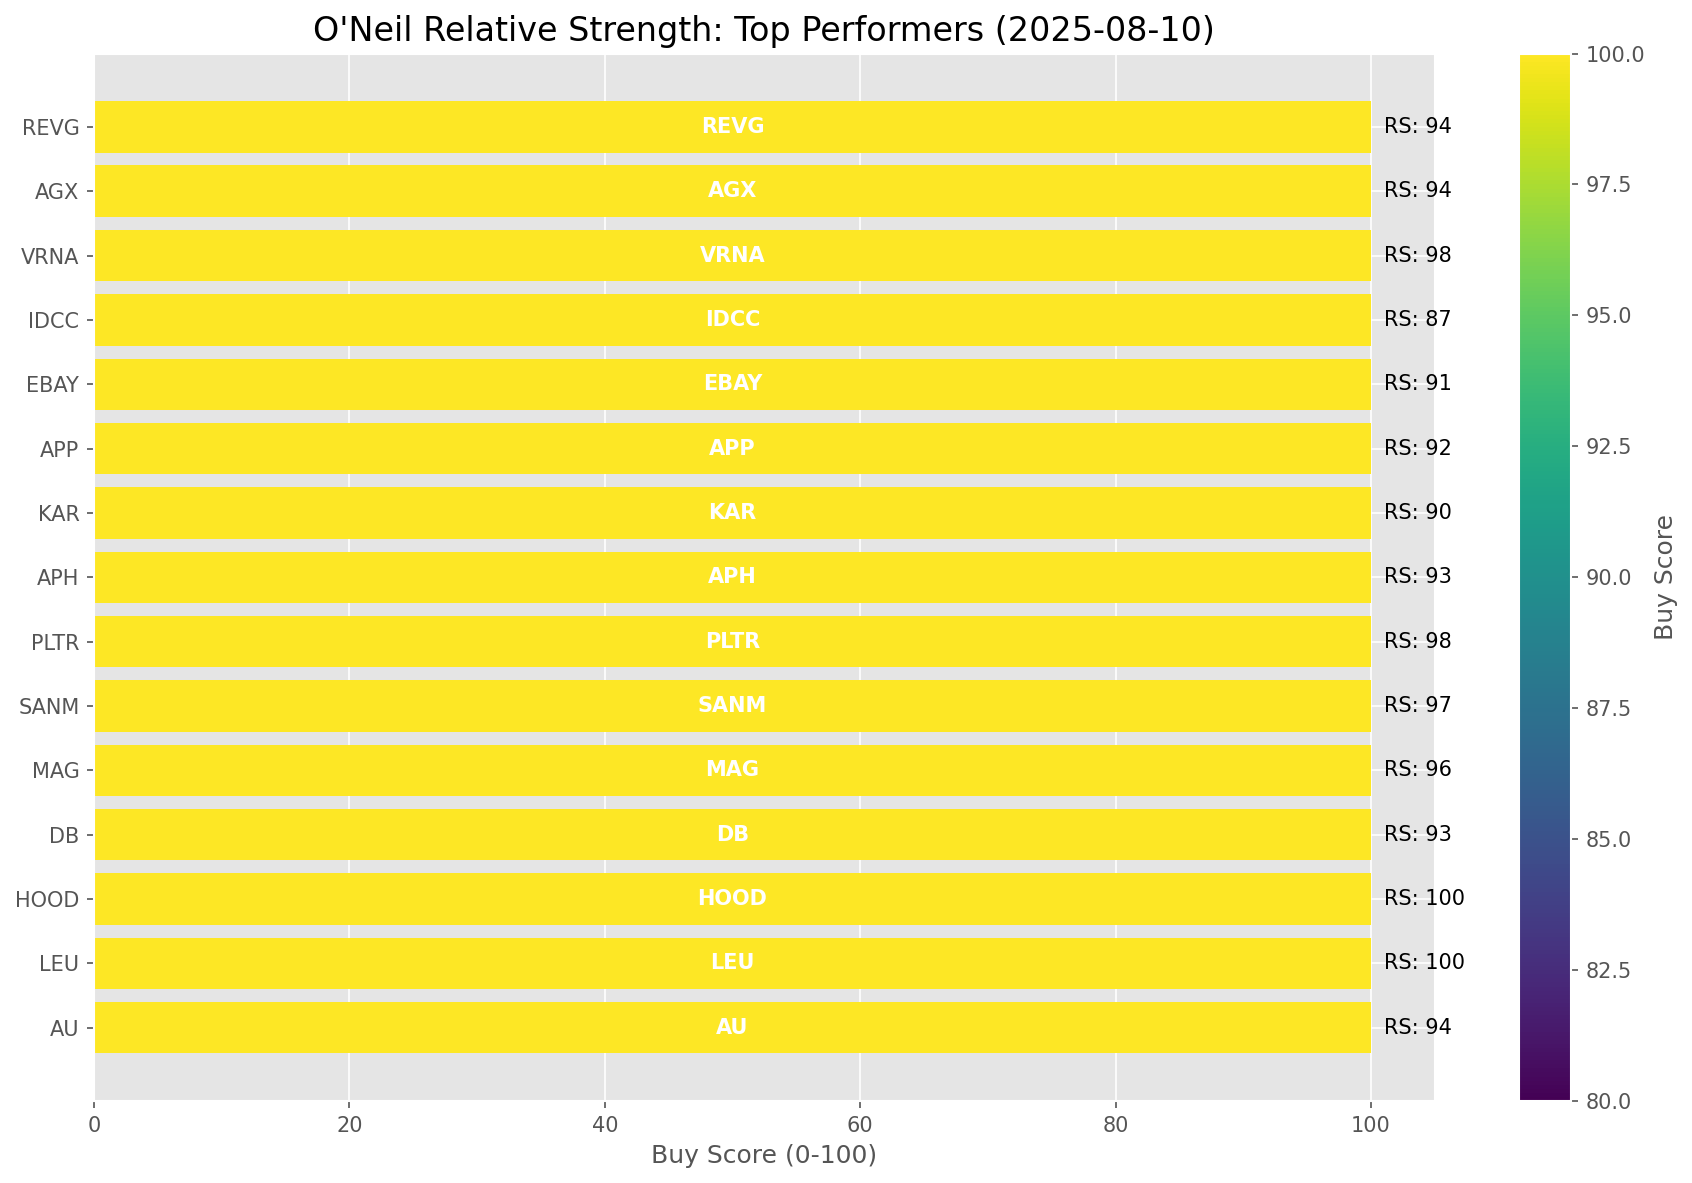
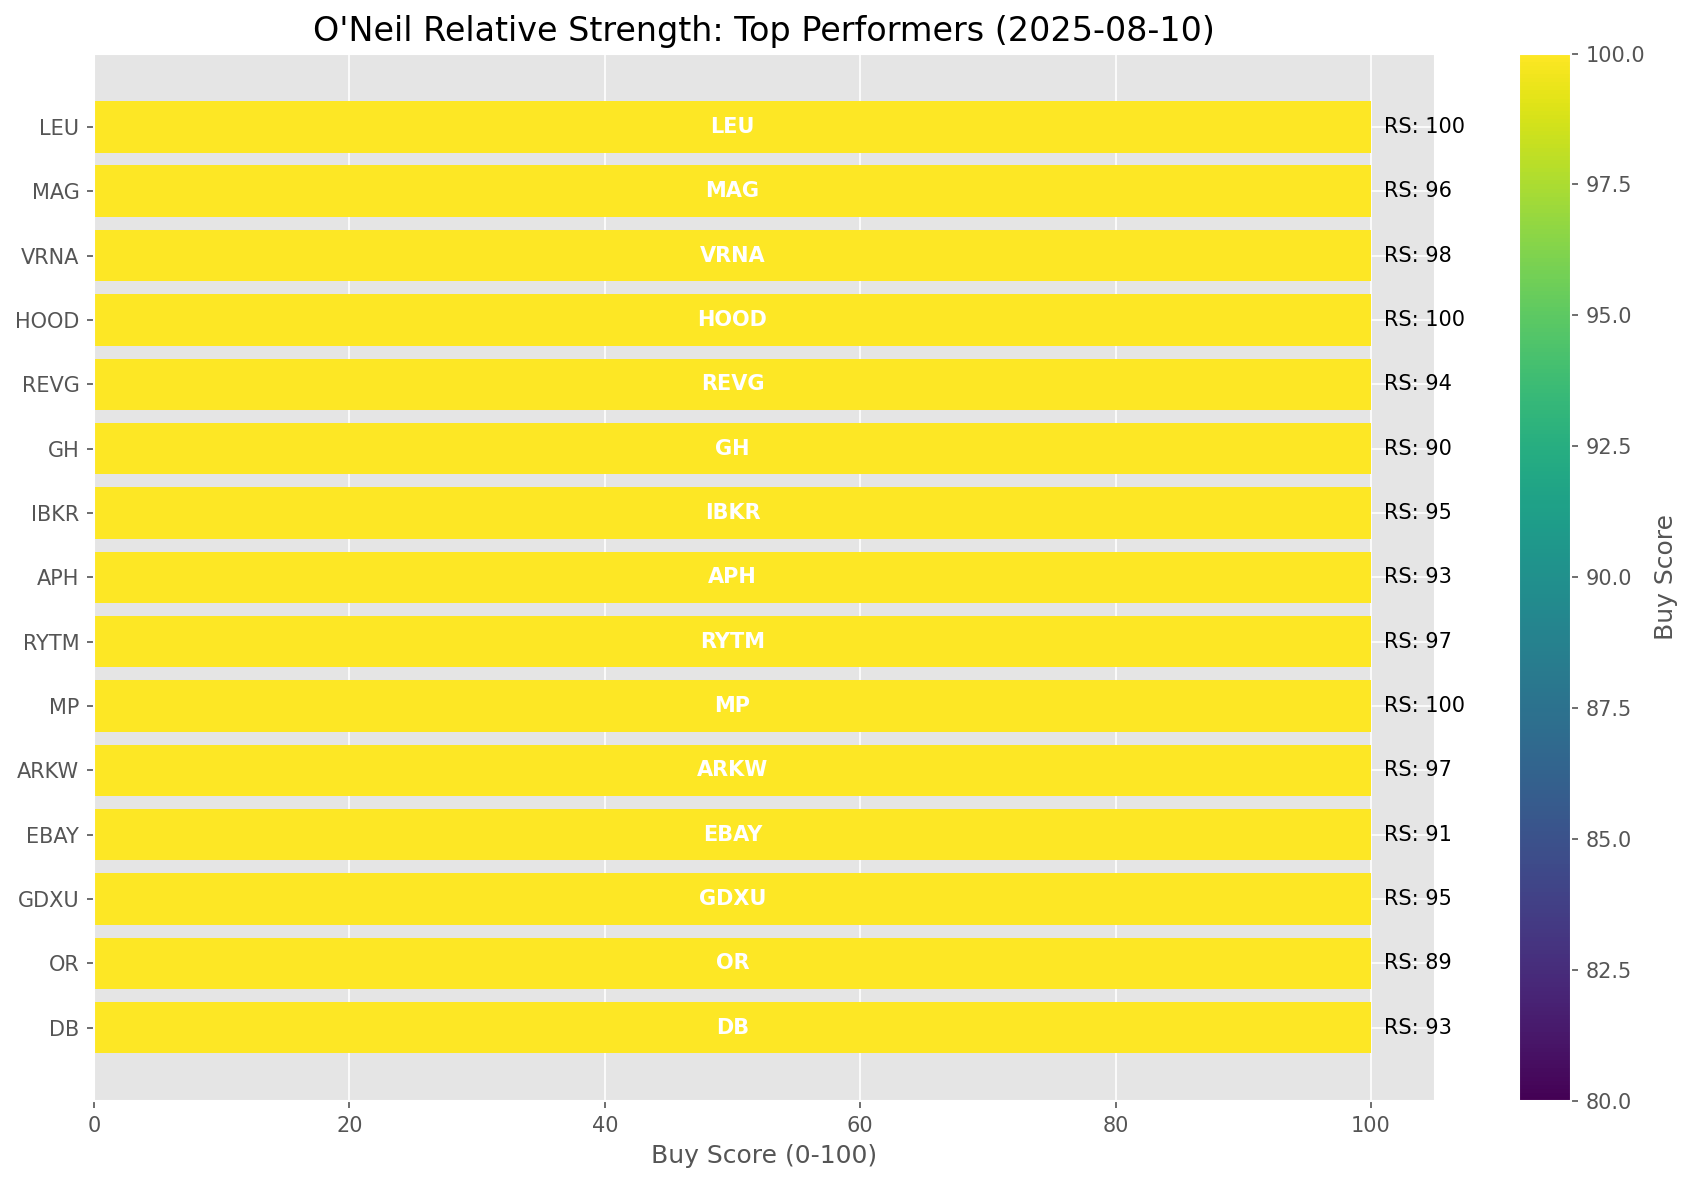
Add market report for 2025-08-10

diff --git a/oneil_relative_strength_report_2025-08-10.md b/oneil_relative_strength_report_2025-08-10.md
@@ -50,8 +50,8 @@ Based on William O'Neil's Relative Strength Methodology
 | ETF | Strength | RS Rating | Performance | Above Key MAs | Trend | Sector |
 |-----|----------|-----------|-------------|--------------|-------|--------|
 | [ARKW](https://www.tradingview.com/chart/?symbol=ARKW) | 98.5 | 97.0 | 49.80% | 10d ✓, 50d ✓, 200d ✓ | ↗ | Next Generation Internet |
-| [ARKF](https://www.tradingview.com/chart/?symbol=ARKF) | 98.0 | 96.0 | 45.73% | 10d ✓, 50d ✓, 200d ✓ | ↗ | Fintech Innovation |
 | [ARKK](https://www.tradingview.com/chart/?symbol=ARKK) | 98.0 | 96.0 | 45.25% | 10d ✓, 50d ✓, 200d ✓ | ↗ | Innovation |
+| [ARKF](https://www.tradingview.com/chart/?symbol=ARKF) | 98.0 | 96.0 | 45.73% | 10d ✓, 50d ✓, 200d ✓ | ↗ | Fintech Innovation |
 | [XLK](https://www.tradingview.com/chart/?symbol=XLK) | 92.5 | 85.0 | 22.05% | 10d ✓, 50d ✓, 200d ✓ | ↗ | Technology |
 | [SLV](https://www.tradingview.com/chart/?symbol=SLV) | 90.0 | 80.0 | 18.40% | 10d ✓, 50d ✓, 200d ✓ | ↗ | Silver |
 | [AIQ](https://www.tradingview.com/chart/?symbol=AIQ) | 89.0 | 78.0 | 17.23% | 10d ✓, 50d ✓, 200d ✓ | ↗ | Artificial Intelligence & Technology |
@@ -98,7 +98,7 @@ This table shows the relative strength metrics for different market sectors base
 
 ### **Current Sector Leadership**
 
-The current market leadership is coming from the following sectors: **Next Generation Internet, Fintech Innovation, Innovation**.
+The current market leadership is coming from the following sectors: **Next Generation Internet, Innovation, Fintech Innovation**.
 
 The **Next Generation Internet** sector (represented by **ARKW**) is showing particularly strong relative strength with an RS rating of 97.0 and performance of 49.80% vs. the S&P 500. This sector is trading above its 10-day, 50-day, 200-day moving average(s). Investors should consider focusing on high RS stocks within these leading sectors for potential outperformance.
 
@@ -110,39 +110,39 @@ The following 69 stocks show exceptional relative strength:
 
 | RS Rating | Buy Score | Current Price | Chart | Name | Ticker |
 |-----------|-----------|---------------|-------|------|--------|
-| 100 | 100 | $223.15 | [Chart](https://www.tradingview.com/chart/?symbol=LEU) | Centrus Energy Corp. | LEU |
-| 100 | 100 | $114.63 | [Chart](https://www.tradingview.com/chart/?symbol=HOOD) | Robinhood Markets, Inc. Class A Common Stock | HOOD |
-| 100 | 100 | $120.41 | [Chart](https://www.tradingview.com/chart/?symbol=CRDO) | Credo Technology Group Holding Ltd Ordinary Shares | CRDO |
 | 100 | 100 | $74.32 | [Chart](https://www.tradingview.com/chart/?symbol=MP) | MP Materials Corp. | MP |
+| 100 | 100 | $114.63 | [Chart](https://www.tradingview.com/chart/?symbol=HOOD) | Robinhood Markets, Inc. Class A Common Stock | HOOD |
+| 100 | 100 | $223.15 | [Chart](https://www.tradingview.com/chart/?symbol=LEU) | Centrus Energy Corp. | LEU |
 | 100 | 100 | $207.66 | [Chart](https://www.tradingview.com/chart/?symbol=CLS) | Celestica, Inc. | CLS |
+| 100 | 100 | $120.41 | [Chart](https://www.tradingview.com/chart/?symbol=CRDO) | Credo Technology Group Holding Ltd Ordinary Shares | CRDO |
 | 99 | 100 | $63.88 | [Chart](https://www.tradingview.com/chart/?symbol=KTOS) | Kratos Defense & Security Solutions, Inc. | KTOS |
 | 99 | 100 | $128.71 | [Chart](https://www.tradingview.com/chart/?symbol=RBLX) | Roblox Corporation | RBLX |
-| 98 | 100 | $186.96 | [Chart](https://www.tradingview.com/chart/?symbol=PLTR) | Palantir Technologies Inc. Class A Common Stock | PLTR |
 | 98 | 100 | $105.28 | [Chart](https://www.tradingview.com/chart/?symbol=VRNA) | Verona Pharma plc | VRNA |
-| 97 | 100 | $121.25 | [Chart](https://www.tradingview.com/chart/?symbol=SANM) | Sanmina  Corp | SANM |
-| 97 | 100 | $91.98 | [Chart](https://www.tradingview.com/chart/?symbol=RYTM) | Rhythm Pharmaceuticals, Inc. Common Stock | RYTM |
-| 97 | 100 | $160.92 | [Chart](https://www.tradingview.com/chart/?symbol=FUTU) | Futu Holdings Limited American Depositary Shares | FUTU |
-| 97 | 100 | $177.35 | [Chart](https://www.tradingview.com/chart/?symbol=COOP) | Mr. Cooper Group Inc. Common Stock | COOP |
+| 98 | 100 | $186.96 | [Chart](https://www.tradingview.com/chart/?symbol=PLTR) | Palantir Technologies Inc. Class A Common Stock | PLTR |
 | 97 | 100 | $158.77 | [Chart](https://www.tradingview.com/chart/?symbol=ARKW) | ARK Next Generation Internet ETF | ARKW |
+| 97 | 100 | $91.98 | [Chart](https://www.tradingview.com/chart/?symbol=RYTM) | Rhythm Pharmaceuticals, Inc. Common Stock | RYTM |
+| 97 | 100 | $121.25 | [Chart](https://www.tradingview.com/chart/?symbol=SANM) | Sanmina  Corp | SANM |
+| 97 | 100 | $177.35 | [Chart](https://www.tradingview.com/chart/?symbol=COOP) | Mr. Cooper Group Inc. Common Stock | COOP |
+| 97 | 100 | $160.92 | [Chart](https://www.tradingview.com/chart/?symbol=FUTU) | Futu Holdings Limited American Depositary Shares | FUTU |
 | 96 | 100 | $23.15 | [Chart](https://www.tradingview.com/chart/?symbol=MAG) | MAG Silver Corp. | MAG |
+| 96 | 100 | $24.60 | [Chart](https://www.tradingview.com/chart/?symbol=ACAD) | Acadia Pharmaceuticals Inc. | ACAD |
 | 96 | 100 | $54.24 | [Chart](https://www.tradingview.com/chart/?symbol=ARKF) | ARK Fintech Innovation ETF | ARKF |
 | 96 | 100 | $224.34 | [Chart](https://www.tradingview.com/chart/?symbol=JBL) | Jabil Inc. | JBL |
-| 96 | 100 | $24.60 | [Chart](https://www.tradingview.com/chart/?symbol=ACAD) | Acadia Pharmaceuticals Inc. | ACAD |
 | 95 | 100 | $92.88 | [Chart](https://www.tradingview.com/chart/?symbol=GDXU) | MicroSectors Gold Miners 3x Leveraged ETN | GDXU |
-| 95 | 100 | $259.19 | [Chart](https://www.tradingview.com/chart/?symbol=DASH) | DoorDash, Inc. Class A Common Stock | DASH |
 | 95 | 100 | $65.91 | [Chart](https://www.tradingview.com/chart/?symbol=IBKR) | Interactive Brokers Group, Inc. Class A Common Stock | IBKR |
+| 95 | 100 | $259.19 | [Chart](https://www.tradingview.com/chart/?symbol=DASH) | DoorDash, Inc. Class A Common Stock | DASH |
+| 94 | 100 | $50.01 | [Chart](https://www.tradingview.com/chart/?symbol=REVG) | REV Group, Inc. | REVG |
 | 94 | 100 | $57.42 | [Chart](https://www.tradingview.com/chart/?symbol=AU) | AngloGold Ashanti plc | AU |
 | 94 | 100 | $239.02 | [Chart](https://www.tradingview.com/chart/?symbol=AGX) | Argan, Inc | AGX |
-| 94 | 100 | $50.01 | [Chart](https://www.tradingview.com/chart/?symbol=REVG) | REV Group, Inc. | REVG |
 | 93 | 100 | $36.26 | [Chart](https://www.tradingview.com/chart/?symbol=DB) | Deutsche Bank Aktiengesellschaft | DB |
 | 93 | 100 | $109.98 | [Chart](https://www.tradingview.com/chart/?symbol=APH) | Amphenol Corporation | APH |
-| 92 | 100 | $455.98 | [Chart](https://www.tradingview.com/chart/?symbol=APP) | Applovin Corporation Class A Common Stock | APP |
 | 92 | 100 | $54.43 | [Chart](https://www.tradingview.com/chart/?symbol=SIL) | Global X Silver Miners ETF (NEW) | SIL |
+| 92 | 100 | $455.98 | [Chart](https://www.tradingview.com/chart/?symbol=APP) | Applovin Corporation Class A Common Stock | APP |
 | 92 | 100 | $20.45 | [Chart](https://www.tradingview.com/chart/?symbol=LQDA) | Liquidia Corporation Common Stock | LQDA |
 | 91 | 100 | $93.14 | [Chart](https://www.tradingview.com/chart/?symbol=EBAY) | eBay Inc | EBAY |
 | 91 | 100 | $57.24 | [Chart](https://www.tradingview.com/chart/?symbol=BTI) | British American Tobacco p.l.c. American Depositary Shares, American Depositary Shares, each representing one Ordinary Share | BTI |
-| 90 | 100 | $27.98 | [Chart](https://www.tradingview.com/chart/?symbol=KAR) | OPENLANE, Inc | KAR |
 | 90 | 100 | $54.23 | [Chart](https://www.tradingview.com/chart/?symbol=GH) | Guardant Health, Inc. Common Stock | GH |
+| 90 | 100 | $27.98 | [Chart](https://www.tradingview.com/chart/?symbol=KAR) | OPENLANE, Inc | KAR |
 | 90 | 100 | $43.67 | [Chart](https://www.tradingview.com/chart/?symbol=LTM) | LATAM Airlines Group S.A. American Depositary Shares (each representing two thousand (2,000) shares of Common Stock) | LTM |
 | 89 | 100 | $30.41 | [Chart](https://www.tradingview.com/chart/?symbol=OR) | OR Royalties Inc. | OR |
 | 89 | 100 | $275.01 | [Chart](https://www.tradingview.com/chart/?symbol=GE) | GE Aerospace | GE |
@@ -154,31 +154,31 @@ The following 69 stocks show exceptional relative strength:
 | 86 | 98 | $43.62 | [Chart](https://www.tradingview.com/chart/?symbol=FROG) | JFrog Ltd. Ordinary Shares | FROG |
 | 85 | 98 | $100.69 | [Chart](https://www.tradingview.com/chart/?symbol=WPM) | Wheaton Precious Metals Corp. Common Stock | WPM |
 | 84 | 98 | $19.94 | [Chart](https://www.tradingview.com/chart/?symbol=BCS) | Barclays PLC | BCS |
-| 87 | 97 | $18.33 | [Chart](https://www.tradingview.com/chart/?symbol=BVN) | Compania de Minas Buenaventura S.A. | BVN |
 | 87 | 97 | $188.28 | [Chart](https://www.tradingview.com/chart/?symbol=AWI) | Armstrong World Industries, Inc. | AWI |
+| 87 | 97 | $18.33 | [Chart](https://www.tradingview.com/chart/?symbol=BVN) | Compania de Minas Buenaventura S.A. | BVN |
 | 86 | 97 | $26.46 | [Chart](https://www.tradingview.com/chart/?symbol=TFPM) | Triple Flag Precious Metals Corp. | TFPM |
 | 85 | 97 | $842.50 | [Chart](https://www.tradingview.com/chart/?symbol=AXON) | Axon Enterprise, Inc. Common Stock | AXON |
 | 84 | 97 | $119.41 | [Chart](https://www.tradingview.com/chart/?symbol=GILD) | Gilead Sciences Inc | GILD |
 | 86 | 96 | $262.24 | [Chart](https://www.tradingview.com/chart/?symbol=WTS) | Watts Water Technologies, Inc. Class A | WTS |
 | 86 | 96 | $65.63 | [Chart](https://www.tradingview.com/chart/?symbol=MAIN) | Main Street Capital Corporation | MAIN |
-| 85 | 96 | $249.20 | [Chart](https://www.tradingview.com/chart/?symbol=BAP) | Credicorp LTD | BAP |
 | 85 | 96 | $116.62 | [Chart](https://www.tradingview.com/chart/?symbol=SXT) | Sensient Technology Corporation | SXT |
+| 85 | 96 | $249.20 | [Chart](https://www.tradingview.com/chart/?symbol=BAP) | Credicorp LTD | BAP |
 | 85 | 95 | $96.85 | [Chart](https://www.tradingview.com/chart/?symbol=NDAQ) | Nasdaq, Inc. Common Stock | NDAQ |
-| 83 | 95 | $103.09 | [Chart](https://www.tradingview.com/chart/?symbol=BK) | Bank of New York Mellon Corporation | BK |
 | 83 | 95 | $153.50 | [Chart](https://www.tradingview.com/chart/?symbol=VSEC) | VSE Corp | VSEC |
+| 83 | 95 | $103.09 | [Chart](https://www.tradingview.com/chart/?symbol=BK) | Bank of New York Mellon Corporation | BK |
 | 82 | 94 | $71.79 | [Chart](https://www.tradingview.com/chart/?symbol=CSCO) | Cisco Systems, Inc. Common Stock (DE) | CSCO |
-| 83 | 93 | $47.99 | [Chart](https://www.tradingview.com/chart/?symbol=FAST) | Fastenal Co | FAST |
 | 83 | 93 | $24.44 | [Chart](https://www.tradingview.com/chart/?symbol=ING) | ING Groep N.V. American Depositary Shares | ING |
+| 83 | 93 | $47.99 | [Chart](https://www.tradingview.com/chart/?symbol=FAST) | Fastenal Co | FAST |
 | 80 | 93 | $135.61 | [Chart](https://www.tradingview.com/chart/?symbol=AEM) | Agnico Eagle Mines Ltd. | AEM |
 | 82 | 92 | $51.25 | [Chart](https://www.tradingview.com/chart/?symbol=FHI) | Federated Hermes, Inc. | FHI |
 | 82 | 92 | $191.49 | [Chart](https://www.tradingview.com/chart/?symbol=ASND) | Ascendis Pharma A/S American Depositary Shares | ASND |
 | 82 | 92 | $13.00 | [Chart](https://www.tradingview.com/chart/?symbol=PSLV) | Sprott Physical Silver Trust | PSLV |
-| 81 | 92 | $229.12 | [Chart](https://www.tradingview.com/chart/?symbol=BA) | Boeing Company | BA |
 | 81 | 92 | $117.19 | [Chart](https://www.tradingview.com/chart/?symbol=SPMO) | Invesco S&P 500 Momentum ETF | SPMO |
 | 81 | 92 | $307.10 | [Chart](https://www.tradingview.com/chart/?symbol=PODD) | Insulet Corporation | PODD |
+| 81 | 92 | $229.12 | [Chart](https://www.tradingview.com/chart/?symbol=BA) | Boeing Company | BA |
 | 80 | 92 | $58.06 | [Chart](https://www.tradingview.com/chart/?symbol=GDX) | VanEck Gold Miners ETF | GDX |
-| 80 | 91 | $25.91 | [Chart](https://www.tradingview.com/chart/?symbol=PUK) | PRUDENTIAL PLC ADS (REP 2 ORD SHARES) | PUK |
 | 80 | 91 | $36.58 | [Chart](https://www.tradingview.com/chart/?symbol=SIVR) | abrdn Physical Silver Shares ETF | SIVR |
+| 80 | 91 | $25.91 | [Chart](https://www.tradingview.com/chart/?symbol=PUK) | PRUDENTIAL PLC ADS (REP 2 ORD SHARES) | PUK |
 
 ---
 
@@ -193,8 +193,8 @@ The following 52 stocks show deteriorating relative strength:
 | 3 | 100 | $22.63 | [Chart](https://www.tradingview.com/chart/?symbol=ZSL) | ProShares UltraShort Silver | ZSL |
 | 6 | 100 | $41.57 | [Chart](https://www.tradingview.com/chart/?symbol=SDOW) | ProShares UltraPro Short Dow 30 | SDOW |
 | 6 | 100 | $21.81 | [Chart](https://www.tradingview.com/chart/?symbol=HELE) | Helen Of Troy Ltd | HELE |
-| 8 | 100 | $36.19 | [Chart](https://www.tradingview.com/chart/?symbol=LZB) | La-Z-Boy Incorporated | LZB |
 | 8 | 100 | $40.74 | [Chart](https://www.tradingview.com/chart/?symbol=BILL) | BILL Holdings, Inc. | BILL |
+| 8 | 100 | $36.19 | [Chart](https://www.tradingview.com/chart/?symbol=LZB) | La-Z-Boy Incorporated | LZB |
 | 11 | 100 | $38.79 | [Chart](https://www.tradingview.com/chart/?symbol=SH) | ProShares Short S&P500 | SH |
 | 15 | 100 | $31.49 | [Chart](https://www.tradingview.com/chart/?symbol=JD) | JD.com, Inc. | JD |
 | 16 | 100 | $16.34 | [Chart](https://www.tradingview.com/chart/?symbol=CTO) | CTO Realty Growth, Inc. | CTO |
